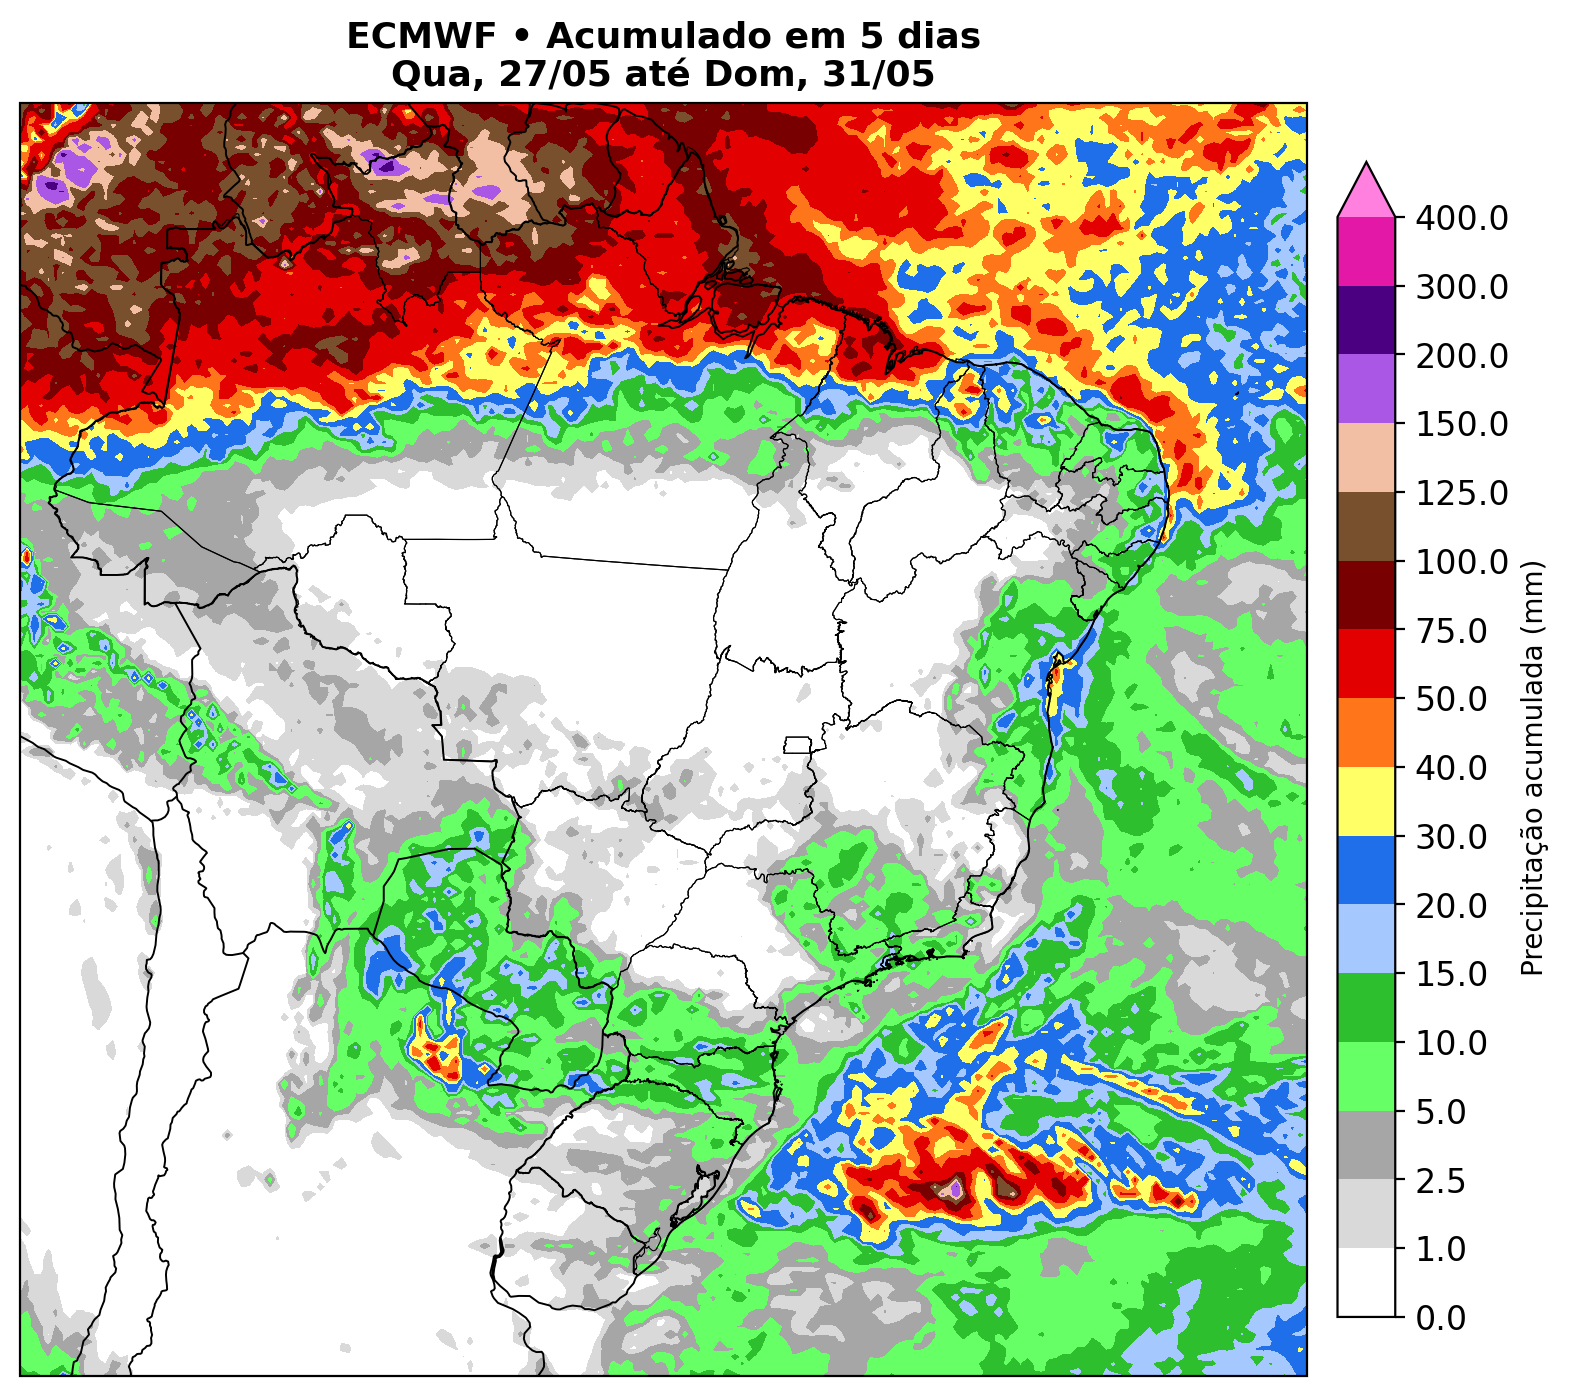
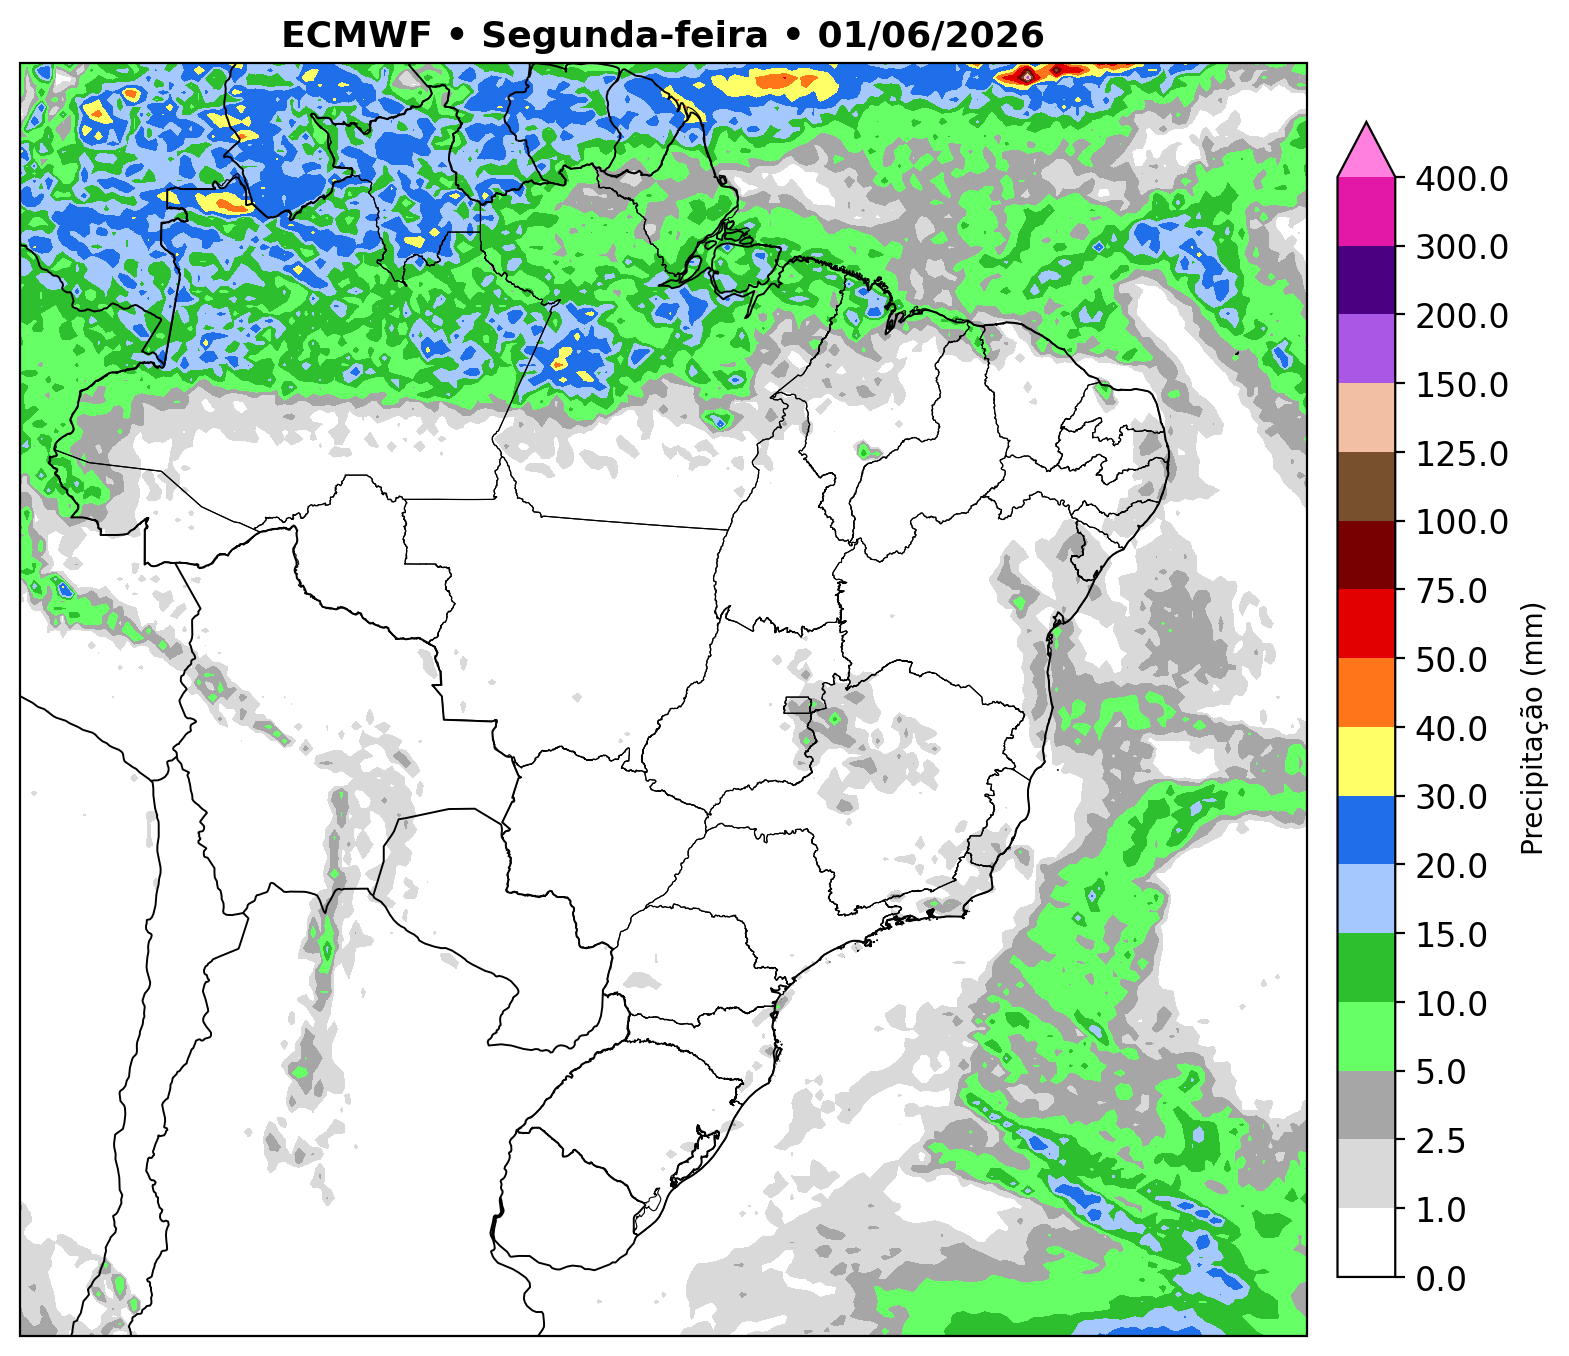
Atualização nos mapas

diff --git a/mapas.html b/mapas.html
@@ -45,6 +45,11 @@
     <img src="mapas/04.png" alt="">
     <img src="mapas/05.png" alt="">
     <img src="mapas/06.png" alt="">
+    <img src="mapas/07.png" alt="">
+    <img src="mapas/08.png" alt="">
+    <img src="mapas/09.png" alt="">
+    <img src="mapas/10.png" alt="">
+    <img src="mapas/acumulado.png" alt="">
   </div>
   
 </body>

diff --git a/mapas.py b/mapas.py
@@ -22,7 +22,7 @@ from ecmwf.opendata import Client
 OUTDIR = "mapas"
 os.makedirs(OUTDIR, exist_ok=True)
 
-DAYS = 5
+DAYS = 10
 
 DPI = 200
 
@@ -407,7 +407,7 @@ def plot_total(total, states, start_date):
         weight="bold"
     )
 
-    outfile = f"{OUTDIR}/06.png"
+    outfile = f"{OUTDIR}/acumulado.png"
 
     plt.savefig(
         outfile,